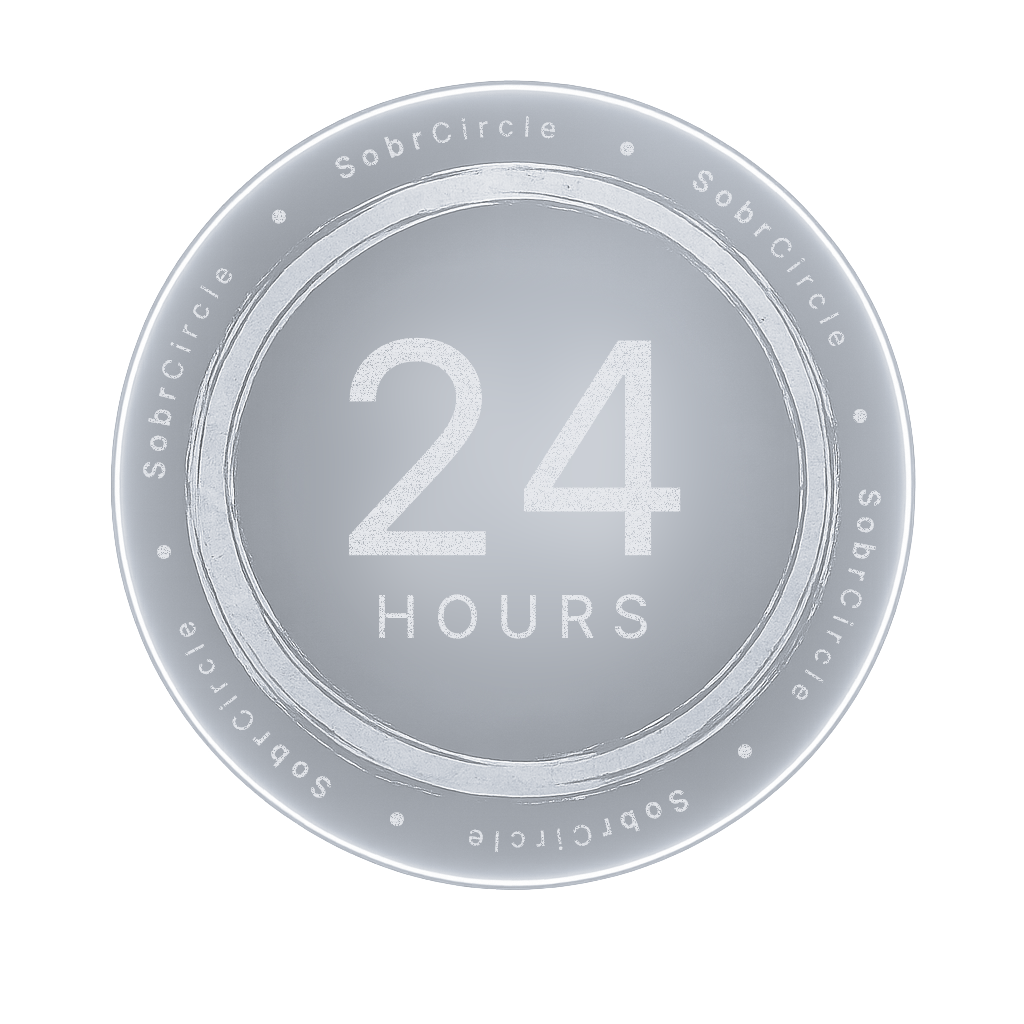
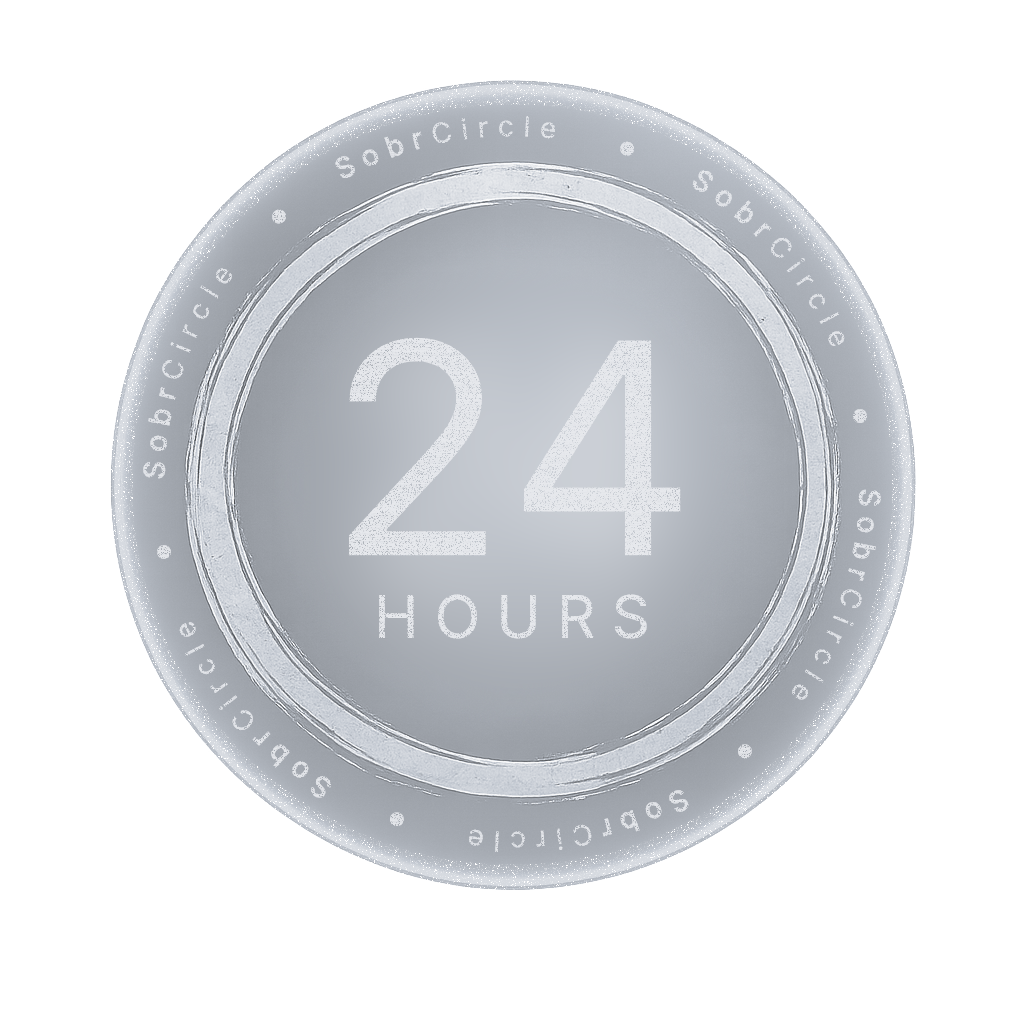
Tint outer ring in badge color and distress it like the rest
- applyTint: cap the white-lift on outer halo pixels (r > 380) at 35%
  so the brightest "white line" reads as a brightened tint instead of
  near-white. Inner brushwork still lifts fully so chrome highlights pop.
- distressOuterRing: new pass that randomly erodes pixel alpha within
  the r=380-415 band so the outer ring picks up the same chipped/etched
  character as the duration text and SobrCircle micro-text. Contained
  to the band so nothing bleeds out of the line it's in.

https://claude.ai/code/session_01TqmVcPLJNZuf7Q6XCPWgNk

diff --git a/scripts/generate-badges.ts b/scripts/generate-badges.ts
@@ -347,6 +347,7 @@ function applyTint(ctx: SKRSContext2D, hex: string) {
   const [tr, tg, tb] = hexToRgb(hex)
   const img = ctx.getImageData(0, 0, SIZE, SIZE)
   const px = img.data
+  const w = SIZE
 
   for (let i = 0; i < px.length; i += 4) {
     const a = px[i + 3]
@@ -359,7 +360,22 @@ function applyTint(ctx: SKRSContext2D, hex: string) {
     let b: number
     if (lum >= DISC_REF_LUM) {
       // Brighter than the disc interior: blend tint toward white.
-      const t = (lum - DISC_REF_LUM) / (1 - DISC_REF_LUM)
+      // Pixel position lets us cap the lift on the outer halo so the
+      // bright outer "white line" stays in the badge's color family
+      // instead of going near-white. Inside the chrome ring we still
+      // let highlights lift fully so the brushwork still pops.
+      const idx = i / 4
+      const px_x = idx % w
+      const px_y = (idx - px_x) / w
+      const dx = px_x - CX
+      const dy = px_y - CY
+      const pr = Math.sqrt(dx * dx + dy * dy)
+
+      let t = (lum - DISC_REF_LUM) / (1 - DISC_REF_LUM)
+      // Outer halo region: cap the lift so the outermost ring reads
+      // as a brightened tint rather than near-white.
+      if (pr > 380) t = Math.min(t, 0.35)
+
       r = tr + (255 - tr) * t
       g = tg + (255 - tg) * t
       b = tb + (255 - tb) * t
@@ -378,6 +394,38 @@ function applyTint(ctx: SKRSContext2D, hex: string) {
   ctx.putImageData(img, 0, 0)
 }
 
+// Apply distress to the outer halo ring (the "white line"). Erodes
+// pixel alpha randomly within r=380–410 only — same etched/chipped
+// character as the text and the chrome ring, contained to its band so
+// nothing bleeds outside.
+function distressOuterRing(ctx: SKRSContext2D) {
+  const img = ctx.getImageData(0, 0, SIZE, SIZE)
+  const px = img.data
+  const w = SIZE
+  let seed = 7
+  const rand = () => {
+    seed = (seed * 1664525 + 1013904223) % 0x100000000
+    return seed / 0x100000000
+  }
+  for (let i = 0; i < px.length; i += 4) {
+    const a = px[i + 3]
+    if (a === 0) continue
+    const idx = i >> 2
+    const px_x = idx % w
+    const px_y = (idx - px_x) / w
+    const dx = px_x - CX
+    const dy = px_y - CY
+    const pr2 = dx * dx + dy * dy
+    if (pr2 < 380 * 380) continue
+    if (pr2 > 415 * 415) continue
+    const r = rand()
+    if (r < 0.18) px[i + 3] = Math.max(0, a - Math.floor(rand() * 110))
+    else if (r < 0.22) px[i + 3] = 0
+    else if (r < 0.50) px[i + 3] = Math.max(0, a - Math.floor(rand() * 28))
+  }
+  ctx.putImageData(img, 0, 0)
+}
+
 async function renderBadge(template: any, d: Duration): Promise<Buffer> {
   // Pre-tint the template so the disc-gray anchor maps exactly to the
   // assigned color. Doing this first (rather than at the end) avoids the
@@ -391,11 +439,13 @@ async function renderBadge(template: any, d: Duration): Promise<Buffer> {
   const ctx = canvas.getContext('2d')
 
   // Tinted disc → erase old text → main duration text → SobrCircle
-  // micro-typography around the outside of the chrome ring.
+  // micro-typography around the outside of the chrome ring → distress
+  // the outer halo line so it matches the etched character of the rest.
   ctx.drawImage(tinted, 0, 0)
   eraseCenterText(ctx, tinted)
   drawText(ctx, d)
   drawMicroTypography(ctx, d.color)
+  distressOuterRing(ctx)
 
   return canvas.toBuffer('image/png')
 }
